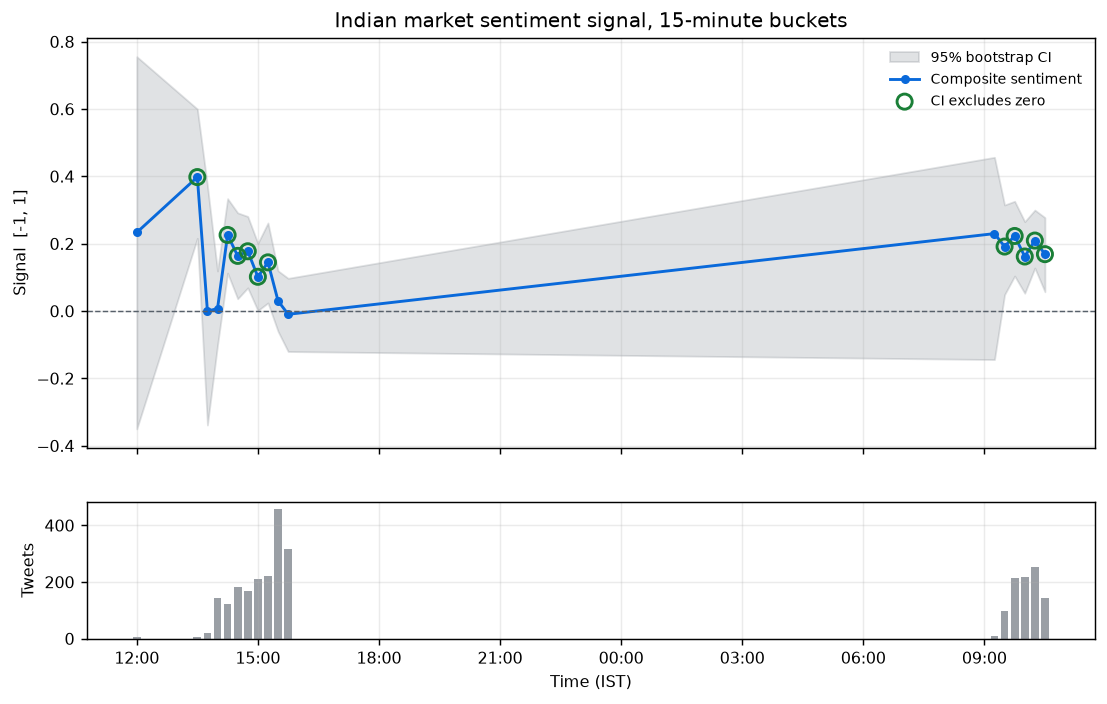
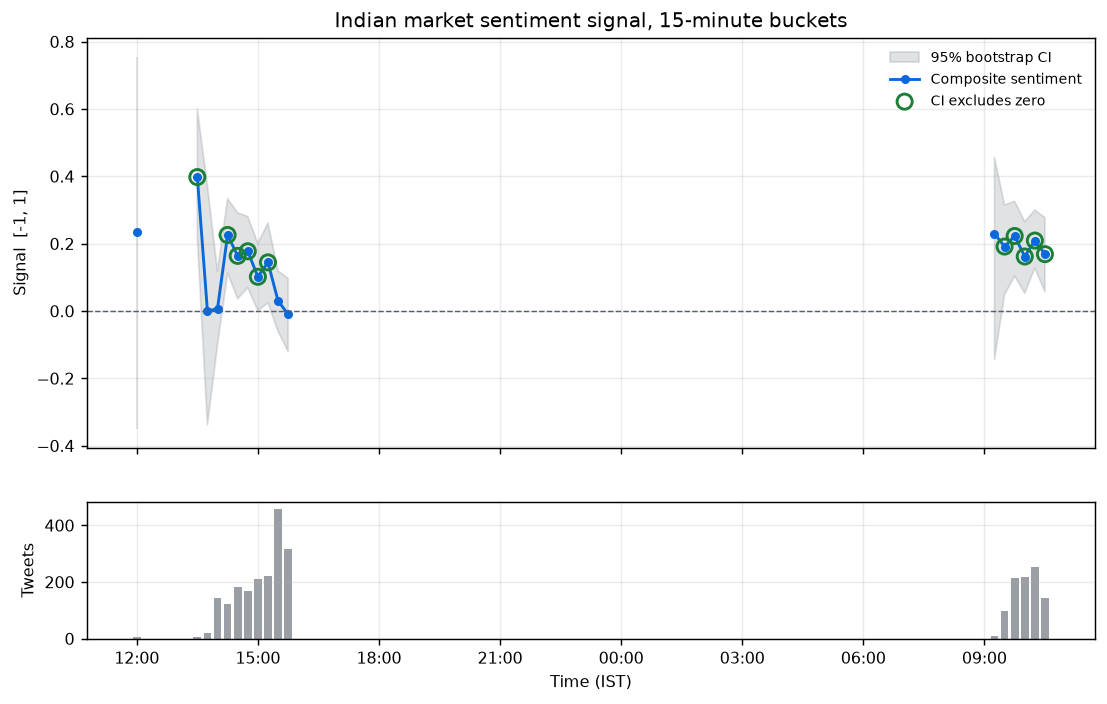
fix: break signal line across data gaps; document calibration scripts

Changed region(s): [[0.2457, 0.2188, 0.9214, 0.5312], [0.1229, 0.0938, 0.1843, 0.5938]]

diff --git a/src/mkt_intel/viz/plots.py b/src/mkt_intel/viz/plots.py
@@ -59,9 +59,31 @@ def plot_signal_series(signals: list[BucketSignal], out: Path) -> Path:
         gridspec_kw={"height_ratios": [3, 1]},
     )
 
-    ax.fill_between(times, lo, hi, alpha=0.18, color=_NEUTRAL,
-                    label="95% bootstrap CI")
-    ax.plot(times, sig, marker="o", ms=4, lw=1.6, color="#0969da",
+    # Insert NaN wherever consecutive live buckets are more than one
+    # bucket-width apart. Without this, matplotlib draws a straight line
+    # across hours with no data -- overnight, and any stretch that fell
+    # below the reliability floor -- which reads as a smooth trend that was
+    # never measured.
+    gap = np.diff([t.timestamp() for t in times])
+    expected = np.median(gap) if len(gap) else 0
+    broken_sig, broken_lo, broken_hi, broken_t = [], [], [], []
+    for i, t in enumerate(times):
+        if i > 0 and expected and gap[i - 1] > expected * 1.5:
+            broken_t.append(t)
+            broken_sig.append(np.nan)
+            broken_lo.append(np.nan)
+            broken_hi.append(np.nan)
+        broken_t.append(t)
+        broken_sig.append(sig[i])
+        broken_lo.append(lo[i])
+        broken_hi.append(hi[i])
+    broken_sig = np.array(broken_sig)
+    broken_lo = np.array(broken_lo)
+    broken_hi = np.array(broken_hi)
+
+    ax.fill_between(broken_t, broken_lo, broken_hi, alpha=0.18,
+                    color=_NEUTRAL, label="95% bootstrap CI")
+    ax.plot(broken_t, broken_sig, marker="o", ms=4, lw=1.6, color="#0969da",
             label="Composite sentiment")
     ax.axhline(0, color=_NEUTRAL, lw=0.8, ls="--")
 

diff --git a/outputs/results.md b/outputs/results.md
@@ -51,7 +51,7 @@
 |---|---:|---:|---:|---:|---:|---|
 | 15m | 16 | -0.226 | 0.400 | -0.389 | 0.137 | 68.8% [44%, 86%] |
 | 30m | 16 | -0.153 | 0.572 | -0.386 | 0.140 | 56.2% [33%, 77%] |
-| 60m | 16 | -0.032 | 0.906 | -0.180 | 0.506 | 81.2% [57%, 93%] |
+| 60m | 16 | -0.032 | 0.906 | -0.203 | 0.451 | 75.0% [51%, 90%] |
 
 **Interpretation.** No correlation reaches significance at the 5% level. Sample sizes here are very small -- a handful of buckets overlap NSE trading hours, because collection covered only part of one session -- so this analysis can detect a strong relationship but cannot rule out a modest one. Point estimates at these sample sizes are not evidence in either direction, and no lag or horizon search was performed, since that would manufacture significance without predictive content. Establishing whether the signal carries information requires collection across multiple sessions.
 

diff --git a/README.md b/README.md
@@ -132,6 +132,20 @@ Several design choices depend on how these markets actually trade:
 - **Institutional flow.** FII/DII positioning is closely tracked and widely
   reported by retail accounts, and carries its own directional weight.
 
+## Supporting scripts
+
+`scripts/` also contains the measurement tooling the design rests on:
+
+| Script | Purpose |
+|---|---|
+| `smoke_test.py` | Verifies session cookies work before a long collection run |
+| `calibrate.py` | Measures per-term-group yield for a single time slice |
+| `calibrate2.py` | Compares query variants; this is where the 25-vs-335 filter finding came from |
+
+These are kept rather than deleted because the query design is derived from
+their output, and the reasoning is easier to check against the tool that
+produced it.
+
 ## Testing
 
     python -m pytest tests/ -q     # 30 tests
